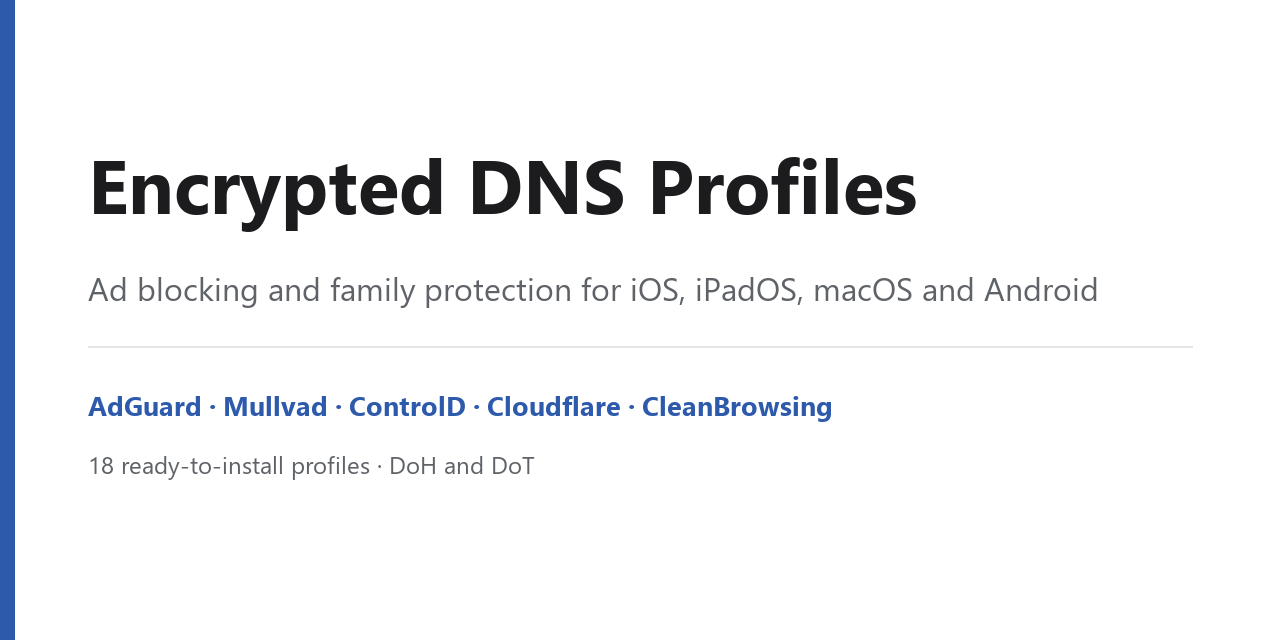
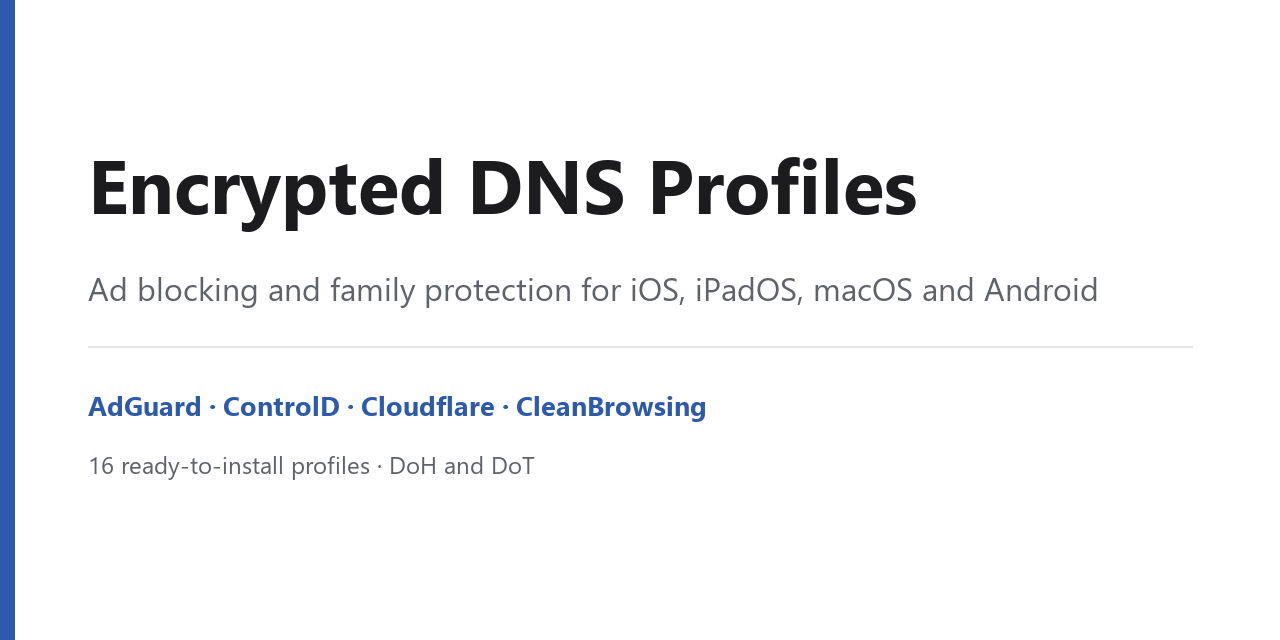
Remove Mullvad Adblock: some networks reset the connection outright
Mullvad's resolver and mullvad.net itself both get connections reset on
networks where the provider is blocked, not merely slow to resolve. A
profile pointing at it can leave a device unable to resolve anything at
all until the profile is removed - confirmed on a real device, matching
the endpoint-check failures seen during development.

Cascades through every place the catalogue is the source of truth:
providers.toml down to 8 entries, 16 profiles and 16 QR codes
regenerated, the comparison graphic redrawn with 8 rows, the site's
speed-test data and card grid updated, README's two tables and the
social preview regenerated. Also fixed scripts/make_qr.py, which never
had the stale-file cleanup dnsprofiles/generate.py already had for
.mobileconfig files - this removal is what surfaced that gap.

Changed region(s): [[0.1562, 0.625, 0.6562, 0.6562]]

diff --git a/docs/index.html b/docs/index.html
@@ -473,7 +473,7 @@
   <p><em>The screen images on this page are illustrative mockups, not real screenshots.</em></p>
 
   <figure class="mockup-wide">
-    <img src="screenshots/provider-comparison.svg" alt="Comparison table of what each of the nine profiles blocks: ads, trackers, malware and adult content. The two Cloudflare rows are empty in the ads and trackers columns." loading="lazy">
+    <img src="screenshots/provider-comparison.svg" alt="Comparison table of what each of the eight profiles blocks: ads, trackers, malware and adult content. The two Cloudflare rows are empty in the ads and trackers columns." loading="lazy">
     <figcaption>What each profile blocks, at a glance. Note the two Cloudflare rows do not cover ads or trackers.</figcaption>
   </figure>
 
@@ -575,7 +575,7 @@
       <p class="provider">Cloudflare</p>
       <h3>Cloudflare &mdash; Security</h3>
       <p class="blocks">Blocks: Malware only &mdash; does not block ads</p>
-      <p class="no-ad-block">This profile does NOT block ads or trackers. Choose an AdGuard, Mullvad, or ControlD profile above for ad blocking.</p>
+      <p class="no-ad-block">This profile does NOT block ads or trackers. Choose an AdGuard or ControlD profile above for ad blocking.</p>
       <p class="operator">Operated by Cloudflare. Homepage: <code>one.one.one.one/family/</code></p>
       <div class="install-buttons">
         <a class="btn btn-primary" href="profiles/cloudflare-security-doh.mobileconfig">Install (DoH)</a>
@@ -665,29 +665,6 @@
       </figure>
     </article>
 
-    <article class="card">
-      <p class="provider">Mullvad</p>
-      <h3>Mullvad DNS &mdash; Adblock</h3>
-      <p class="blocks">Blocks: Ads and trackers</p>
-      <p class="operator">Operated by Mullvad VPN AB (Sweden), published no-logging policy. No Mullvad account needed. Homepage: <code>mullvad.net</code></p>
-      <div class="install-buttons">
-        <a class="btn btn-primary" href="profiles/mullvad-adblock-doh.mobileconfig">Install (DoH)</a>
-        <a class="btn btn-secondary" href="profiles/mullvad-adblock-dot.mobileconfig">Install (DoT)</a>
-      </div>
-      <div class="dot-row">
-        <code>adblock.dns.mullvad.net</code>
-        <button class="copy-btn" type="button" data-copy="adblock.dns.mullvad.net">Copy</button>
-      </div>
-      <figure class="qr" data-slug="mullvad-adblock" data-name="Mullvad DNS Adblock">
-        <div class="qr-toggle" role="group" aria-label="QR code protocol">
-          <button type="button" class="qr-toggle-btn is-active" data-protocol="doh" aria-pressed="true">DoH</button>
-          <button type="button" class="qr-toggle-btn" data-protocol="dot" aria-pressed="false">DoT</button>
-        </div>
-        <img src="qr/mullvad-adblock-doh.svg" alt="QR code linking to the Mullvad DNS Adblock DoH profile" width="140" height="140" loading="lazy">
-        <figcaption>Scan to install (DoH)</figcaption>
-      </figure>
-    </article>
-
   </div>
 </section>
 
@@ -771,7 +748,7 @@
   <p>Every profile above is encrypted; how fast each one answers depends on your own location and network, not on anything this project controls. Rather than publish a fixed number that would be wrong for most visitors, this runs a real, timed DNS query to each provider directly from your browser.</p>
 
   <div class="note">
-    <strong>This is the one thing on this page that runs automatically-on-click network requests to nine third parties.</strong>
+    <strong>This is the one thing on this page that runs automatically-on-click network requests to eight third parties.</strong>
     <p>Nothing is sent to this project. Each request goes straight from your browser to that provider's own resolver, the same way your device would if you installed its profile. A provider blocked or filtered on your network (this happens &mdash; some networks block certain DNS providers outright) will show as unreachable rather than a time.</p>
   </div>
 
@@ -882,8 +859,7 @@
       { slug: 'cloudflare-security', name: 'Cloudflare — Security', color: '#F6821F', dohUrl: 'https://security.cloudflare-dns.com/dns-query' },
       { slug: 'cloudflare-family', name: 'Cloudflare — Family', color: '#F6821F', dohUrl: 'https://family.cloudflare-dns.com/dns-query' },
       { slug: 'cleanbrowsing-family', name: 'CleanBrowsing — Family Filter', color: '#2FA84F', dohUrl: 'https://doh.cleanbrowsing.org/doh/family-filter/' },
-      { slug: 'cleanbrowsing-security', name: 'CleanBrowsing — Security Filter', color: '#2FA84F', dohUrl: 'https://doh.cleanbrowsing.org/doh/security-filter/' },
-      { slug: 'mullvad-adblock', name: 'Mullvad DNS — Adblock', color: '#7C4DFF', dohUrl: 'https://adblock.dns.mullvad.net/dns-query' }
+      { slug: 'cleanbrowsing-security', name: 'CleanBrowsing — Security Filter', color: '#2FA84F', dohUrl: 'https://doh.cleanbrowsing.org/doh/security-filter/' }
     ];
 
     var btn = document.getElementById('speed-test-btn');
@@ -923,7 +899,7 @@
 
     btn.addEventListener('click', function () {
       btn.disabled = true;
-      status.textContent = 'Testing all nine providers from your browser — this takes a few seconds…';
+      status.textContent = 'Testing all eight providers from your browser — this takes a few seconds…';
       results.innerHTML = '';
       var rows = {};
       PROVIDERS.forEach(function (provider) {

diff --git a/tests/test_site.py b/tests/test_site.py
@@ -66,22 +66,30 @@ def test_every_qr_card_can_toggle_between_doh_and_dot():
 def test_speed_test_matches_the_catalogue():
     html = INDEX.read_text(encoding="utf-8")
     pairs = re.findall(r"slug: '([a-z-]+)'.*?dohUrl: '([^']+)'", html)
-    assert len(pairs) == 9
+    assert len(pairs) == 8
     by_slug = {spec.slug: spec.doh_url for spec in load_catalog(DEFAULT_CATALOG_PATH)}
     for slug, doh_url in pairs:
         assert by_slug[slug] == doh_url, f"{slug}: page has {doh_url!r}, catalogue has {by_slug[slug]!r}"
     assert {slug for slug, _ in pairs} == set(by_slug)
 
 
-def test_same_provider_variants_sit_side_by_side():
-    """The 2-column card grid must not split a provider's own pair across
-    rows. Mullvad is the only single-variant provider, so it must trail
-    every paired provider rather than sit between two of them.
+def test_two_variant_providers_sit_side_by_side():
+    """The 2-column card grid must not split a provider's own variants
+    across rows: a provider with exactly two catalogue entries must have
+    its two cards adjacent in DOM order, so they land in the same row.
     """
     html = INDEX.read_text(encoding="utf-8")
-    mullvad_index = html.index('data-slug="mullvad-adblock"')
-    for spec in load_catalog(DEFAULT_CATALOG_PATH):
-        if spec.slug == "mullvad-adblock":
+    specs = load_catalog(DEFAULT_CATALOG_PATH)
+
+    positions = {spec.slug: html.index(f'data-slug="{spec.slug}"') for spec in specs}
+    slugs_by_dom_order = [slug for slug, _ in sorted(positions.items(), key=lambda item: item[1])]
+
+    by_provider: dict[str, list[str]] = {}
+    for spec in specs:
+        by_provider.setdefault(spec.provider, []).append(spec.slug)
+
+    for provider, slugs in by_provider.items():
+        if len(slugs) != 2:
             continue
-        other_index = html.index(f'data-slug="{spec.slug}"')
-        assert other_index < mullvad_index, f"{spec.slug} card appears after Mullvad's"
+        indices = sorted(slugs_by_dom_order.index(slug) for slug in slugs)
+        assert indices[1] - indices[0] == 1, f"{provider}'s two cards are not adjacent in the grid"

diff --git a/scripts/make_social_preview.py b/scripts/make_social_preview.py
@@ -38,8 +38,8 @@ COLOR_RULE = (229, 229, 234)  # #E5E5EA
 
 PROJECT_NAME = "Encrypted DNS Profiles"
 STRAPLINE = "Ad blocking and family protection for iOS, iPadOS, macOS and Android"
-PROVIDERS_LINE = "AdGuard \u00b7 Mullvad \u00b7 ControlD \u00b7 Cloudflare \u00b7 CleanBrowsing"
-FOOTER_LINE = "18 ready-to-install profiles \u00b7 DoH and DoT"
+PROVIDERS_LINE = "AdGuard \u00b7 ControlD \u00b7 Cloudflare \u00b7 CleanBrowsing"
+FOOTER_LINE = "16 ready-to-install profiles \u00b7 DoH and DoT"
 
 
 def _load_font(candidates: list[str], size: int) -> ImageFont.FreeTypeFont:

diff --git a/scripts/make_qr.py b/scripts/make_qr.py
@@ -35,6 +35,12 @@ def generate_qr_codes(
                     handle, kind="svg", scale=4, border=2, dark="#111111", light=None
                 )
             written.append(path)
+
+    expected = {path.name for path in written}
+    for existing in output_dir.glob("*.svg"):
+        if existing.name not in expected:
+            existing.unlink()
+
     return sorted(written, key=lambda path: path.name)
 
 

diff --git a/tests/test_catalog.py b/tests/test_catalog.py
@@ -80,7 +80,7 @@ def test_rejects_empty_addresses(tmp_path):
         load_catalog(write(tmp_path, bad))
 
 
-def test_real_catalogue_has_nine_unique_entries():
+def test_real_catalogue_has_eight_unique_entries():
     specs = load_catalog(DEFAULT_CATALOG_PATH)
-    assert len(specs) == 9
-    assert len({s.slug for s in specs}) == 9
+    assert len(specs) == 8
+    assert len({s.slug for s in specs}) == 8

diff --git a/tests/test_generate.py b/tests/test_generate.py
@@ -10,7 +10,7 @@ OUTPUT = Path(__file__).resolve().parent.parent / "docs" / "profiles"
 def test_generates_two_files_per_catalogue_entry(tmp_path):
     written = generate_all(DEFAULT_CATALOG_PATH, tmp_path)
     assert len(written) == 2 * len(load_catalog(DEFAULT_CATALOG_PATH))
-    assert len(written) == 18
+    assert len(written) == 16
 
 
 def test_every_written_file_parses_as_a_plist(tmp_path):

diff --git a/tests/test_qr.py b/tests/test_qr.py
@@ -13,7 +13,7 @@ OUTPUT = Path(__file__).resolve().parent.parent / "docs" / "qr"
 
 def test_generates_one_qr_per_profile(tmp_path):
     written = generate_qr_codes(DEFAULT_CATALOG_PATH, tmp_path)
-    assert len(written) == 18
+    assert len(written) == 16
     assert (tmp_path / "adguard-default-doh.svg").exists()
 
 

diff --git a/README.md b/README.md
@@ -29,7 +29,6 @@ A DNS-level blocklist is not an ad blocker in the browser-extension sense — it
 |---|---|---|---|
 | AdGuard DNS - Ad Blocking | Ads, trackers | AdGuard Software Limited | `dns.adguard-dns.com` |
 | AdGuard DNS - Family Protection | Ads, trackers, adult content, enforces safe search | AdGuard Software Limited | `family.adguard-dns.com` |
-| Mullvad DNS - Adblock | Ads, trackers, no query logging | Mullvad VPN AB (Sweden) | `adblock.dns.mullvad.net` |
 | ControlD Free - Ad Blocking | Ads, trackers, malware | Windscribe (ControlD brand) | `p2.freedns.controld.com` |
 | ControlD Free - Family | Ads, trackers, malware, adult content | Windscribe (ControlD brand) | `family.freedns.controld.com` |
 | Cloudflare - Security | Malware only — **does not block ads** | Cloudflare | `security.cloudflare-dns.com` |
@@ -94,7 +93,6 @@ Every variant, in both DoH and DoT. Links point at the install site, which serve
 |---|---|---|
 | AdGuard DNS - Ad Blocking | [Install](https://atikansari-ghr.github.io/encrypted-dns-profiles/profiles/adguard-default-doh.mobileconfig) | [Install](https://atikansari-ghr.github.io/encrypted-dns-profiles/profiles/adguard-default-dot.mobileconfig) |
 | AdGuard DNS - Family Protection | [Install](https://atikansari-ghr.github.io/encrypted-dns-profiles/profiles/adguard-family-doh.mobileconfig) | [Install](https://atikansari-ghr.github.io/encrypted-dns-profiles/profiles/adguard-family-dot.mobileconfig) |
-| Mullvad DNS - Adblock | [Install](https://atikansari-ghr.github.io/encrypted-dns-profiles/profiles/mullvad-adblock-doh.mobileconfig) | [Install](https://atikansari-ghr.github.io/encrypted-dns-profiles/profiles/mullvad-adblock-dot.mobileconfig) |
 | ControlD Free - Ad Blocking | [Install](https://atikansari-ghr.github.io/encrypted-dns-profiles/profiles/controld-ads-doh.mobileconfig) | [Install](https://atikansari-ghr.github.io/encrypted-dns-profiles/profiles/controld-ads-dot.mobileconfig) |
 | ControlD Free - Family | [Install](https://atikansari-ghr.github.io/encrypted-dns-profiles/profiles/controld-family-doh.mobileconfig) | [Install](https://atikansari-ghr.github.io/encrypted-dns-profiles/profiles/controld-family-dot.mobileconfig) |
 | Cloudflare - Security | [Install](https://atikansari-ghr.github.io/encrypted-dns-profiles/profiles/cloudflare-security-doh.mobileconfig) | [Install](https://atikansari-ghr.github.io/encrypted-dns-profiles/profiles/cloudflare-security-dot.mobileconfig) |
@@ -144,7 +142,7 @@ python -m pytest
 - A DNS resolver sees every domain your device resolves, even when the query itself is encrypted. Encryption protects the query from anyone else on the network path; it does nothing to hide it from the resolver's operator. Pick a provider whose logging policy you're comfortable with — the comparison table above names the operator for each one.
 - Profiles are unsigned and their XML is readable before you install them, at [`docs/profiles/`](docs/profiles/). See "Not Signed" above for why.
 - Each profile includes bootstrap IP addresses for its resolver, so it does not depend on the network's existing DNS to reach the encrypted resolver in the first place.
-- Loading the install site makes no external requests on its own — no CDN, no web fonts, no analytics, no third-party script of any kind. Everything the page loads by default is inline and local. Three things on the page are the deliberate exception, and only run when you click them: the "Check it is working" section links to [dnsleaktest.com](https://dnsleaktest.com/) and [adblock-tester.com](https://adblock-tester.com/), two independent third-party sites not affiliated with this project or any provider above; and the "Compare resolver speed" section times a real DNS query to each of the nine providers directly from your browser. None of these send anything to this project — they go straight from your device to the provider or test site, the same way installing the profile would.
+- Loading the install site makes no external requests on its own — no CDN, no web fonts, no analytics, no third-party script of any kind. Everything the page loads by default is inline and local. Three things on the page are the deliberate exception, and only run when you click them: the "Check it is working" section links to [dnsleaktest.com](https://dnsleaktest.com/) and [adblock-tester.com](https://adblock-tester.com/), two independent third-party sites not affiliated with this project or any provider above; and the "Compare resolver speed" section times a real DNS query to each of the eight providers directly from your browser. None of these send anything to this project — they go straight from your device to the provider or test site, the same way installing the profile would.
 - No telemetry, anywhere in this repository or the install site.
 - The weekly endpoint check (the `endpoints` badge above) runs on a GitHub Actions schedule, and GitHub automatically disables scheduled workflows after 60 days with no repository activity. If the repository goes quiet, the check stops running silently until someone triggers it manually (`workflow_dispatch`) or pushes a commit — it is not a standing guarantee.
 

diff --git a/CHANGELOG.md b/CHANGELOG.md
@@ -6,7 +6,16 @@ and this project adheres to [Semantic Versioning](https://semver.org/spec/v2.0.0
 
 ## [Unreleased]
 
-No changes yet.
+### Removed
+- Mullvad Adblock. Several networks reset the connection to Mullvad's
+  resolver and to mullvad.net itself outright, so a profile pointing at it
+  can leave a device unable to resolve anything at all until the profile is
+  removed. The remaining eight profiles (four providers, two variants each)
+  were all confirmed reachable. `scripts/make_qr.py` was also fixed to
+  delete a provider's QR codes when it is removed from the catalogue,
+  matching the behaviour `dnsprofiles/generate.py` already had for
+  `.mobileconfig` files — this repository's own removal is what surfaced
+  the gap.
 
 ## [1.0.0] - 2026-08-22
 
